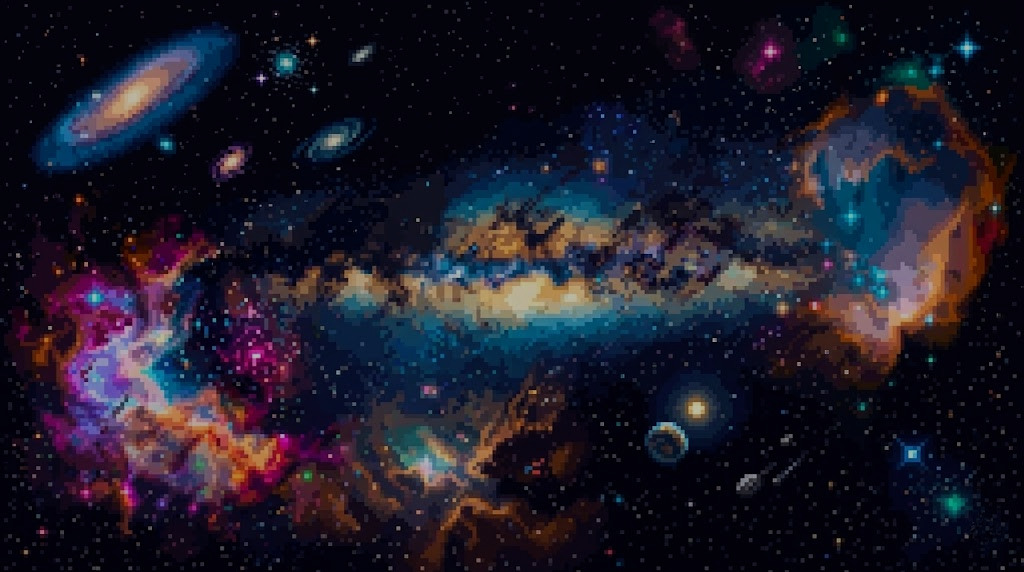
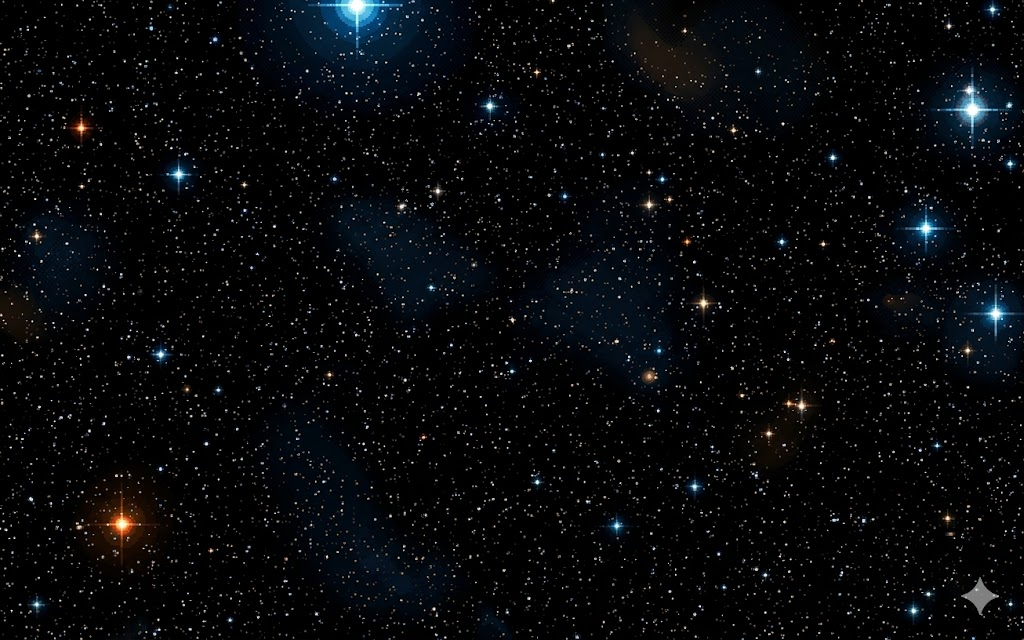
Versión final

diff --git a/GameJam-Algoritmos/VenPrin.h b/GameJam-Algoritmos/VenPrin.h
@@ -9,6 +9,7 @@ namespace GameJamAlgoritmos {
 	using namespace System::Windows::Forms;
 	using namespace System::Data;
 	using namespace System::Drawing;
+	using namespace System::Media;
 
 	/// <summary>
 	/// Resumen de VenPrin
@@ -16,6 +17,8 @@ namespace GameJamAlgoritmos {
 	public ref class VenPrin : public System::Windows::Forms::Form
 	{
 	public:
+		SoundPlayer^ variablesonido = gcnew SoundPlayer("recursos\\musica_juego.wav");
+
 		VenPrin(int nivelActual)
 		{
 			InitializeComponent();
@@ -40,6 +43,8 @@ namespace GameJamAlgoritmos {
 			delete gr;
 			delete buffer;
 			delete juego;
+
+			variablesonido->Stop();
 		}
 	private: System::ComponentModel::IContainer^ components;
 	protected:
@@ -87,6 +92,7 @@ namespace GameJamAlgoritmos {
 		}
 #pragma endregion
 	private: System::Void VenPrin_Load(System::Object^ sender, System::EventArgs^ e) {
+		variablesonido->PlayLooping();
 	}
 	private: System::Void timer1_Tick(System::Object^ sender, System::EventArgs^ e) {
 		juego->manejarBuclePrincipal(buffer->Graphics);

diff --git a/GameJam-Algoritmos/Juego.h b/GameJam-Algoritmos/Juego.h
@@ -4,6 +4,7 @@
 #include "Fuente.h"
 #include "PanelControl.h"
 
+
 ref class Juego {
 private:
 	PanelControl^ pc;